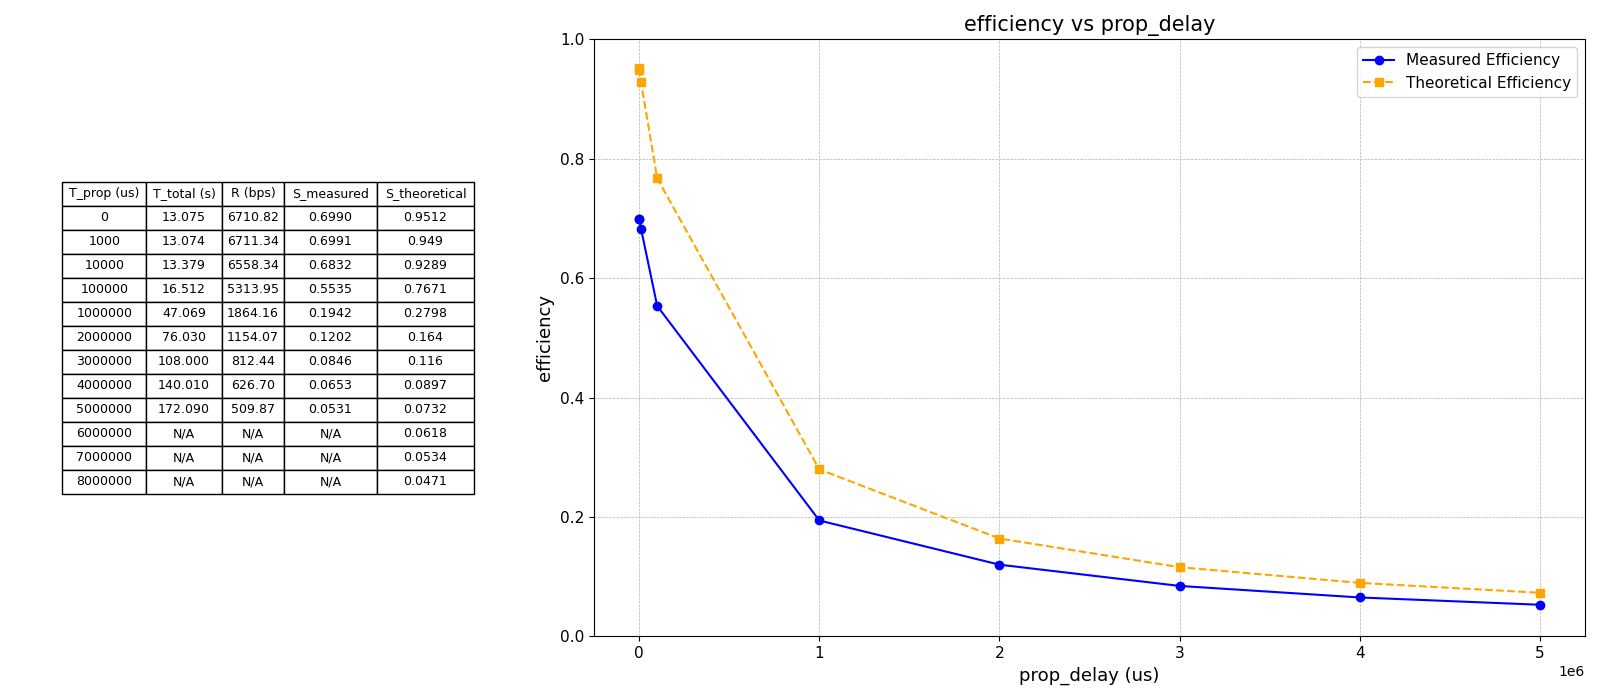
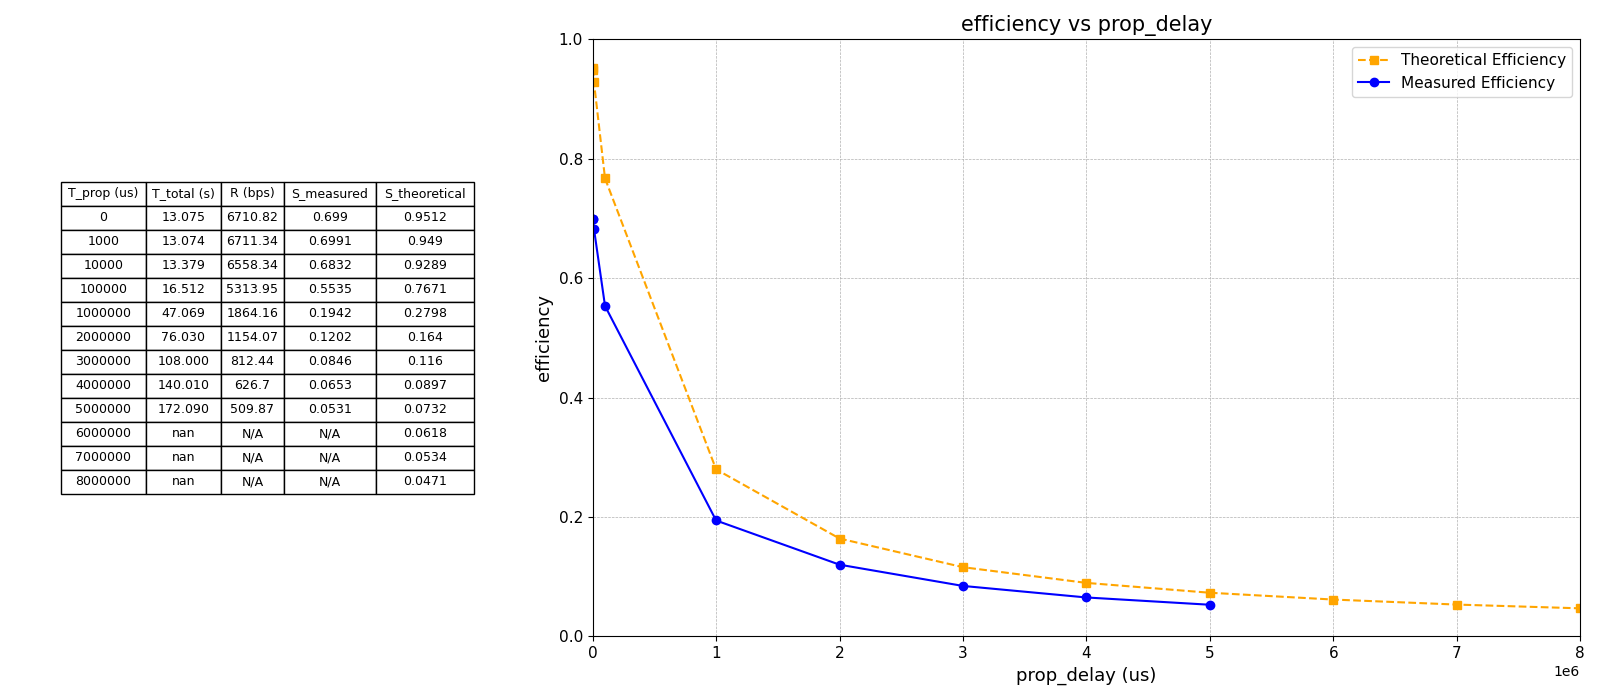
yuppy

diff --git a/lab1-code-25-26/docs/plot_efficiency_graphs.py b/lab1-code-25-26/docs/plot_efficiency_graphs.py
@@ -5,51 +5,55 @@ import pandas as pd
 
 
 def plot_efficiency_vs_variable(csv_path, variable_name, output_folder, output_name):
-    df = pd.read_csv(csv_path, na_values=None, keep_default_na=False)
-    # Use Measured Efficiency S for y-axis, but drop rows where either y value is NA or not a number
-    df_plot = df.copy()
-    # Convert to numeric, coerce errors to NaN
-    df_plot["Measured Efficiency S"] = pd.to_numeric(
-        df_plot["Measured Efficiency S"], errors="coerce"
+    df = pd.read_csv(csv_path, na_values=["N/A", ""], keep_default_na=True)
+    # Convert columns to numeric, coerce errors to NaN
+    df["Measured Efficiency S"] = pd.to_numeric(
+        df["Measured Efficiency S"], errors="coerce"
     )
-    df_plot["Theoretical Efficiency S_theoretical"] = pd.to_numeric(
-        df_plot["Theoretical Efficiency S_theoretical"], errors="coerce"
+    df["Theoretical Efficiency S_theoretical"] = pd.to_numeric(
+        df["Theoretical Efficiency S_theoretical"], errors="coerce"
     )
-    df_plot[variable_name] = pd.to_numeric(df_plot[variable_name], errors="coerce")
-    # Only keep rows where x and y values are not NaN
-    df_plot = df_plot.dropna(
-        subset=[
-            variable_name,
-            "Measured Efficiency S",
-            "Theoretical Efficiency S_theoretical",
-        ]
+    df[variable_name] = pd.to_numeric(df[variable_name], errors="coerce")
+
+    # For theoretical: plot all x where theoretical is present
+    df_theoretical = df.dropna(
+        subset=[variable_name, "Theoretical Efficiency S_theoretical"]
     )
-    x = df_plot[variable_name]
-    y_measured = df_plot["Measured Efficiency S"]
-    y_theoretical = df_plot["Theoretical Efficiency S_theoretical"]
+    x_theoretical = df_theoretical[variable_name]
+    y_theoretical = df_theoretical["Theoretical Efficiency S_theoretical"]
+
+    # For measured: plot only where measured is present
+    df_measured = df.dropna(subset=[variable_name, "Measured Efficiency S"])
+    x_measured = df_measured[variable_name]
+    y_measured = df_measured["Measured Efficiency S"]
 
     # Create a figure with two columns: left for plot, right for table
     fig, (ax_table, ax_plot) = plt.subplots(
         1, 2, figsize=(16, 7), gridspec_kw={"width_ratios": [1.2, 2.8]}
     )
 
-    # Plot on the left
+    # Plot theoretical for all x values
     ax_plot.plot(
-        x,
-        y_measured,
-        marker="o",
-        linestyle="-",
-        color="blue",
-        label="Measured Efficiency",
-    )
-    ax_plot.plot(
-        x,
+        x_theoretical,
         y_theoretical,
         marker="s",
         linestyle="--",
         color="orange",
         label="Theoretical Efficiency",
     )
+    # Plot measured only where available
+    ax_plot.plot(
+        x_measured,
+        y_measured,
+        marker="o",
+        linestyle="-",
+        color="blue",
+        label="Measured Efficiency",
+    )
+    # Set x-axis to cover all possible x values in the file
+    all_x = df[variable_name].dropna()
+    if not all_x.empty:
+        ax_plot.set_xlim(min(all_x), max(all_x))
     # Set y-axis from 0 to 1
     ax_plot.set_ylim(0, 1)
     # Set x-axis label based on variable_name
